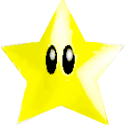
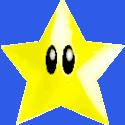
Updated code on two nav gifs.

diff --git a/allFiles.css b/allFiles.css
@@ -58,6 +58,8 @@ li {
 }
 #navImg2 {
     content:url(images/powerStar.png);
+    background-image:url(images/starGrab.gif);
+    background-size:100% 100%;
 }
 #navImg3 {
     content:url(images/masterSword.png);
@@ -93,7 +95,9 @@ li {
     content:url(images/yoshis.png);
 }
 #navImg14 {
-    content:url(images/yoshiEgg.png);
+    content:url(images/yoshiEgg.jpg);
+    background-image:url(images/yoshiEggs.gif);
+    background-size:100% 100%;
 }
 #navImg15 {
     content:url(images/jinjo.jpeg);
